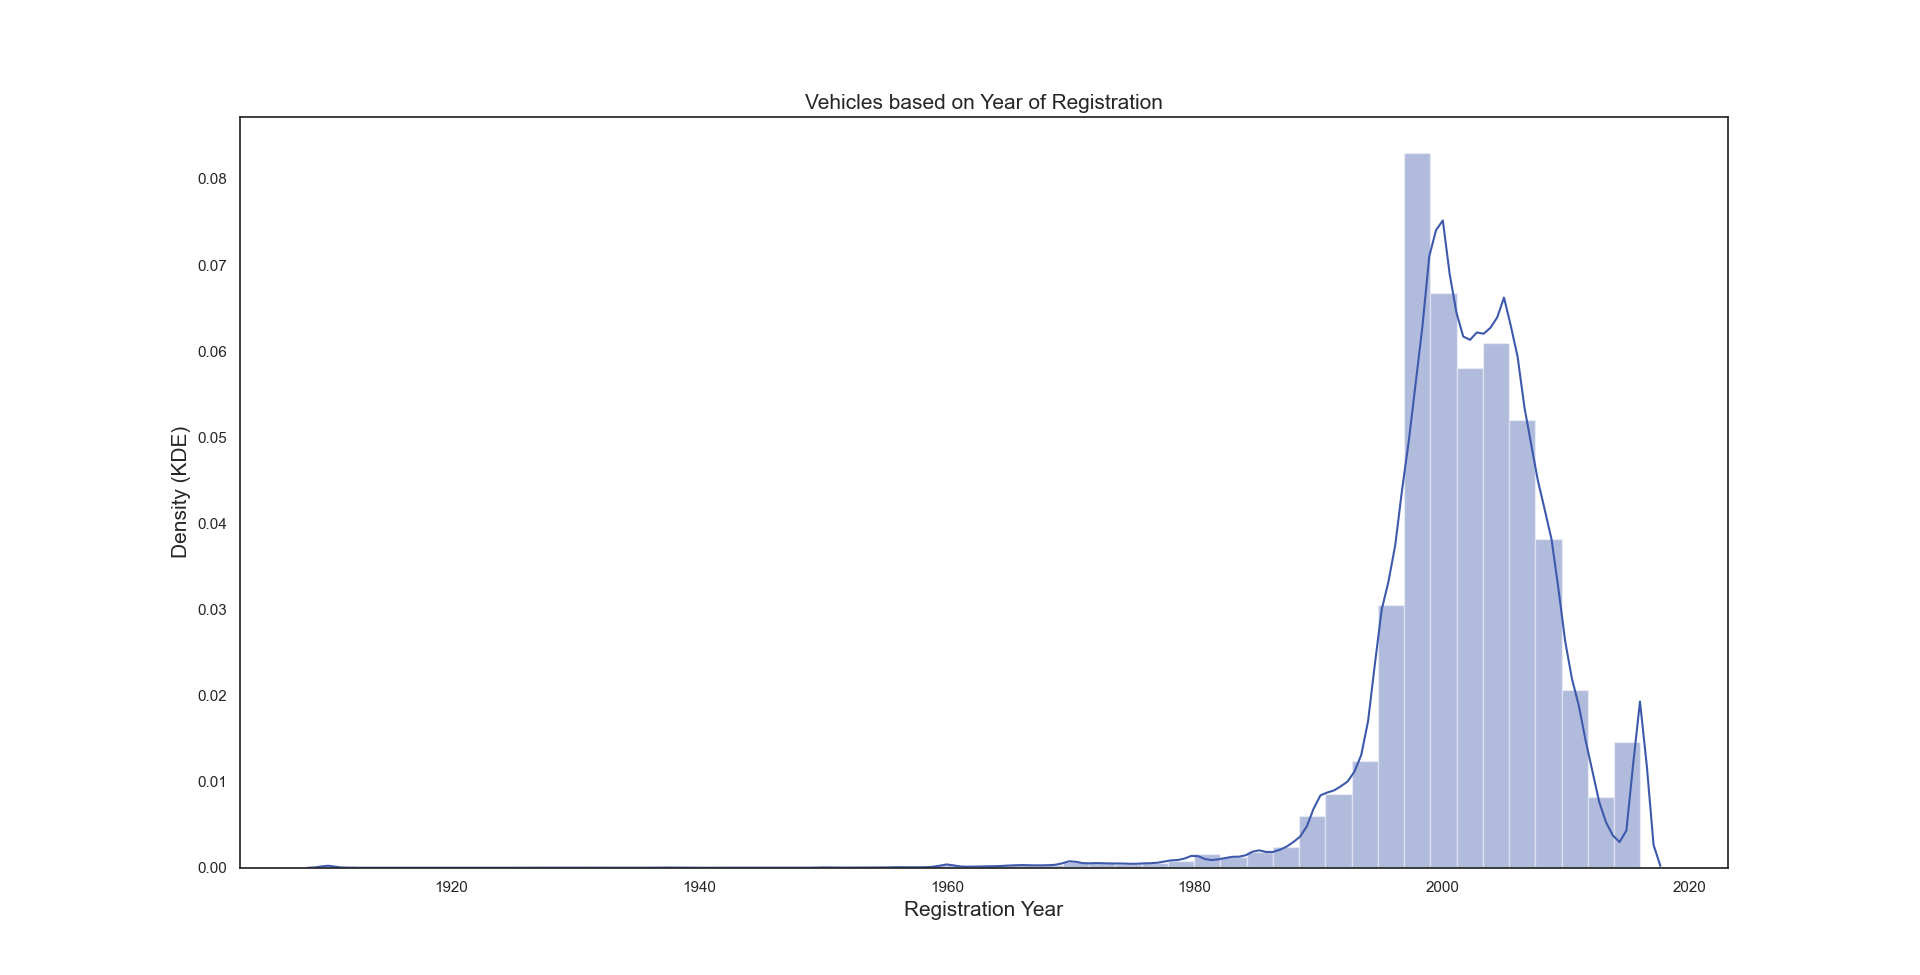
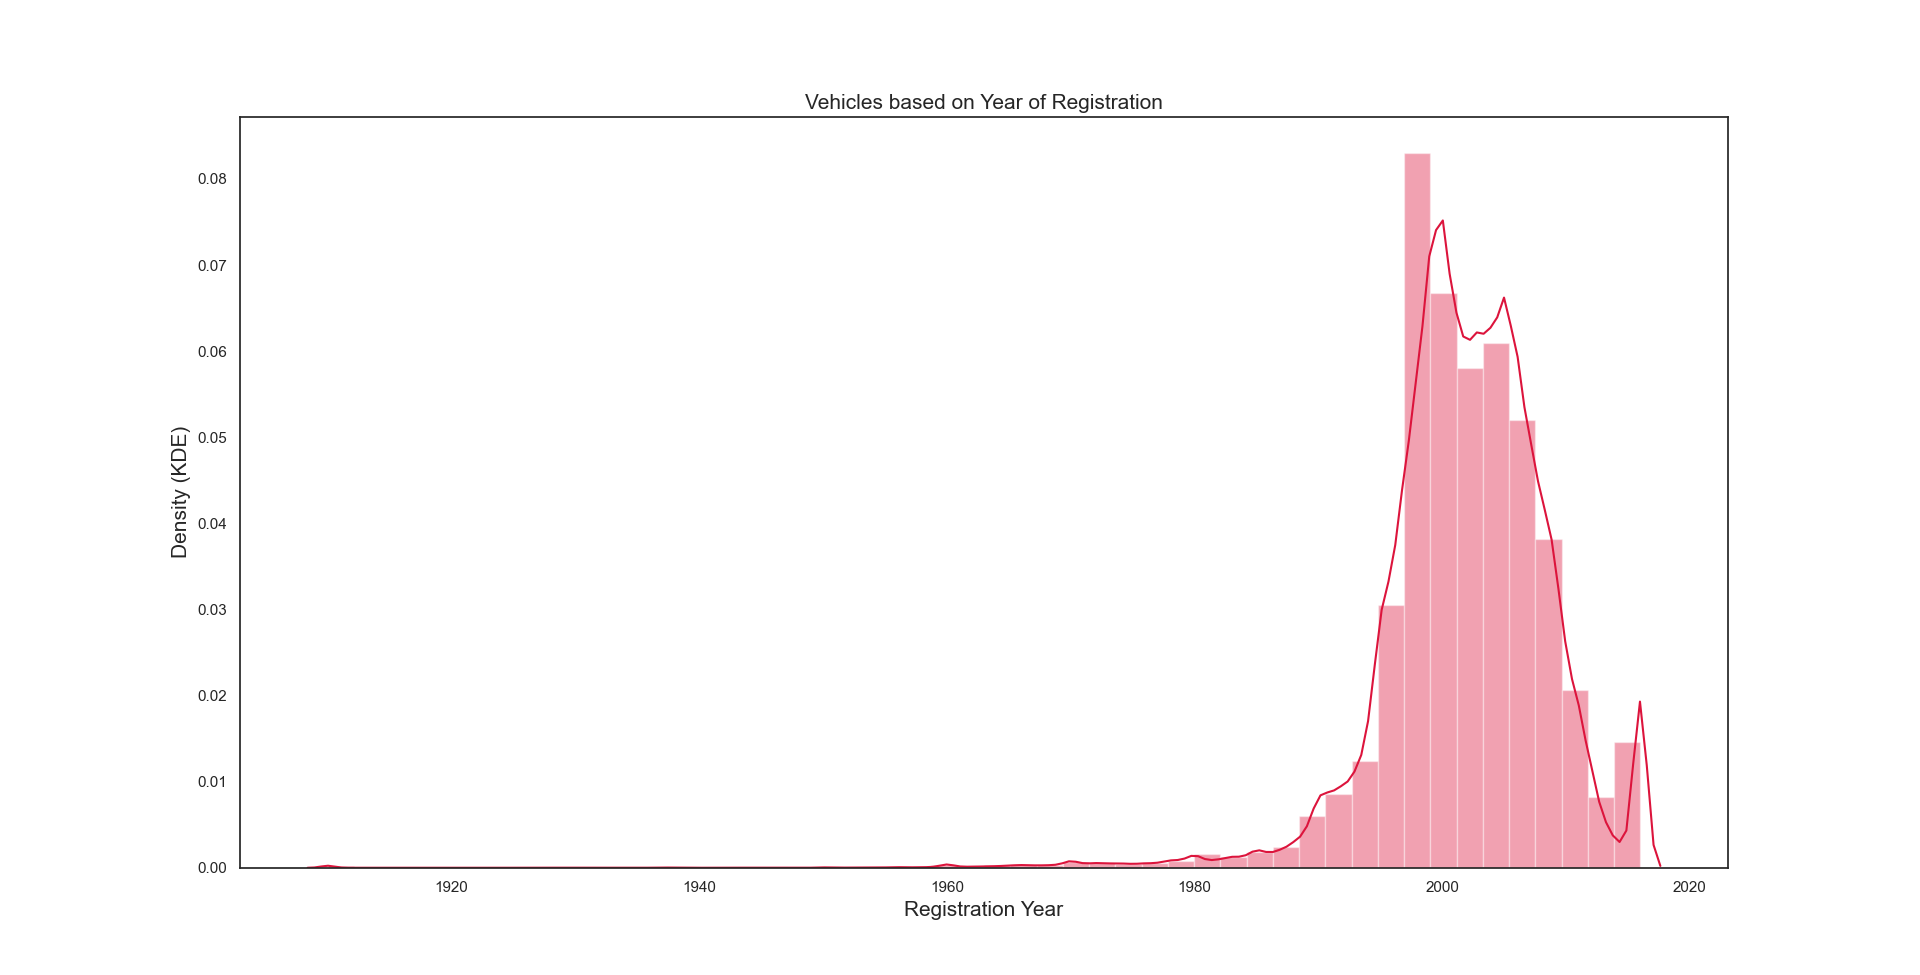
First Commit

Changed region(s): [[0.5312, 0.1538, 0.875, 0.8923]]

diff --git a/FirstAnalysis/First Analysis.py b/FirstAnalysis/First Analysis.py
@@ -39,7 +39,7 @@ df = pd.read_csv(clean_data_path,encoding="latin-1")
 
 # Distribution of vehicles based on year of registration
 fig, ax = plt.subplots(figsize=(8,6))
-sns.distplot(df["yearOfRegistration"], color="#3D59AB",kde=True, ax=ax)
+sns.distplot(df["yearOfRegistration"], color="#DC143C",kde=True, ax=ax)
 ax.set_title('Vehicles based on Year of Registration', fontsize= 15)
 plt.ylabel("Density (KDE)", fontsize= 15)
 plt.xlabel("Registration Year", fontsize= 15)
